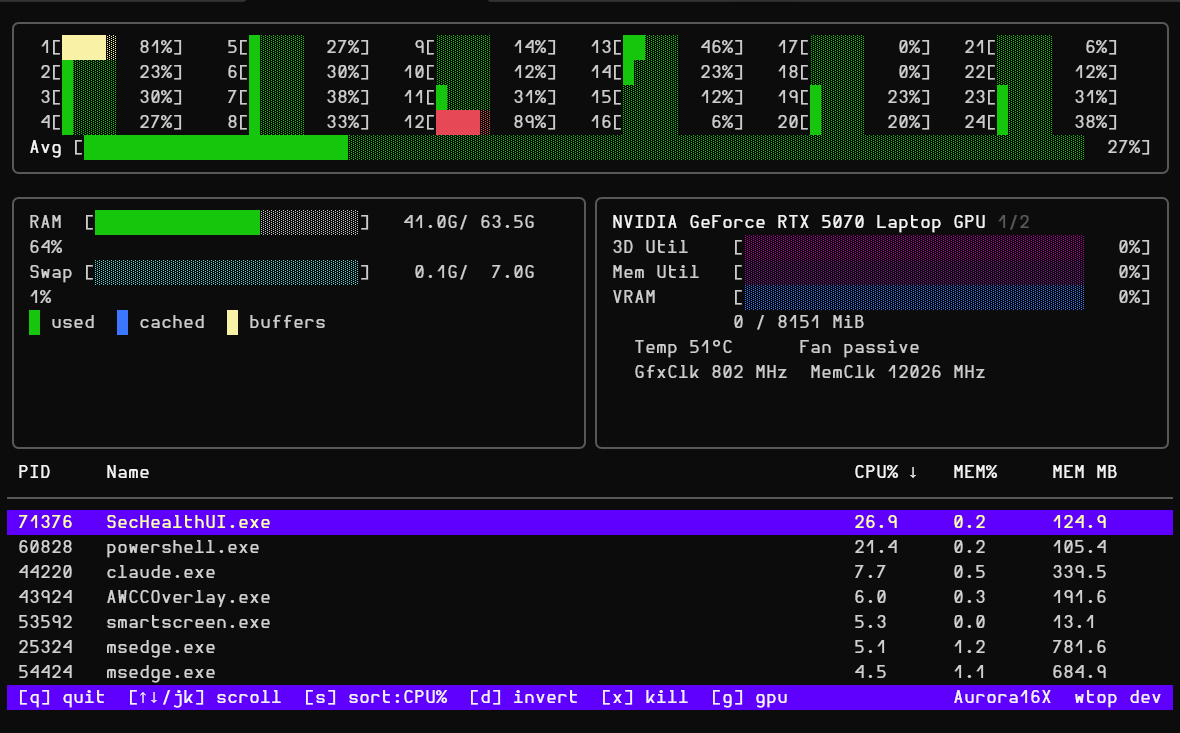
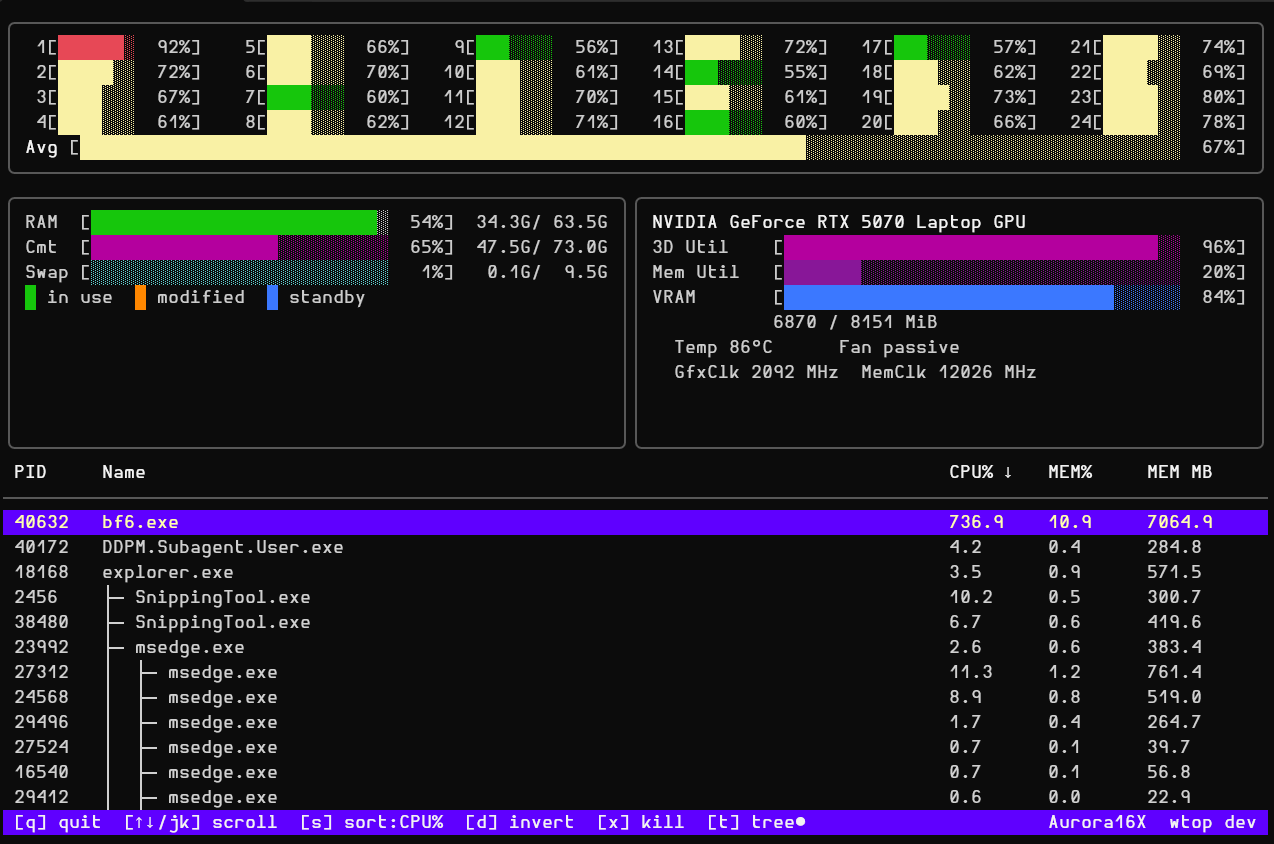
Enhance memory display

diff --git a/internal/ui/panels/mem.go b/internal/ui/panels/mem.go
@@ -8,36 +8,76 @@ import (
 	"github.com/michaelsanford/wtop/internal/collector"
 )
 
-// Mem renders the memory panel.  RAM and Swap each occupy one line with their
-// bar and values inline (no sub-lines).  Colours: green=used, blue=cached,
-// yellow=buffers (Linux), remainder=free.
+// Mem renders the memory panel.
+//
+// On Windows (CommittedBytes > 0) it shows three bar lines:
+//   - RAM   — In Use (green) | Modified (orange) | Standby (blue) | Free (░)
+//   - Cmt   — Committed / commit limit (magenta)
+//   - Swap  — swap utilisation (cyan)
+//
+// On Linux/other it falls back to the htop-style Used | Cached | Buffers layout.
 func Mem(snap collector.MemSnapshot, width, height int) string {
 	innerW := width - 4
 	if innerW < 10 {
 		innerW = 10
 	}
 
-	// Fixed overhead per bar line: "RAM  [" (6) + " NNN%]" (6) + "  " (2) + "XX.XG/XX.XG" (11) = 25
-	// Swap line has same overhead ("Swap [" = 6 chars too).
-	const lineOverhead = 25
+	// Fixed overhead per bar line: "RAM  [" (6) + " NNN%]" (6) + " " (1) + "%5.1fG/%5.1fG" (13) = 26
+	// Swap and Cmt labels are the same width ("Swap [" = "Cmt  [" = 6 chars).
+	const lineOverhead = 26
 	barW := innerW - lineOverhead
 	if barW < 4 {
 		barW = 4
 	}
 
-	ramBar := renderMemBar(snap.RAMUsedBytes, snap.RAMCachedBytes, snap.RAMBuffersBytes, snap.RAMTotalBytes, barW)
-	swapBar := renderBar(snap.SwapPct, barW, lipgloss.Color("14"))
+	var lines []string
+	var legend string
 
-	legend := fmt.Sprintf("%s used  %s cached  %s buffers",
-		lipgloss.NewStyle().Foreground(lipgloss.Color("10")).Render("█"),
-		lipgloss.NewStyle().Foreground(lipgloss.Color("12")).Render("█"),
-		lipgloss.NewStyle().Foreground(lipgloss.Color("11")).Render("█"),
-	)
+	if snap.CommittedBytes > 0 {
+		// ── Windows composition view ─────────────────────────────────────────
+		other := snap.ModifiedBytes + snap.StandbyBytes + snap.FreeBytes
+		var inUse uint64
+		if snap.RAMTotalBytes > other {
+			inUse = snap.RAMTotalBytes - other
+		}
 
-	lines := []string{
-		fmt.Sprintf("RAM  [%s %3.0f%%]  %s", ramBar, snap.RAMPct, fmtMemVal(snap.RAMUsedBytes, snap.RAMTotalBytes)),
-		fmt.Sprintf("Swap [%s %3.0f%%]  %s", swapBar, snap.SwapPct, fmtMemVal(snap.SwapUsedBytes, snap.SwapTotalBytes)),
-		legend,
+		commitPct := 0.0
+		if snap.CommitLimitBytes > 0 {
+			commitPct = float64(snap.CommittedBytes) / float64(snap.CommitLimitBytes) * 100
+		}
+
+		ramBar := renderMemCompositionBar(inUse, snap.ModifiedBytes, snap.StandbyBytes, snap.RAMTotalBytes, barW)
+		cmtBar := renderBar(commitPct, barW, lipgloss.Color("13"))
+		swapBar := renderBar(snap.SwapPct, barW, lipgloss.Color("14"))
+
+		legend = fmt.Sprintf("%s in use  %s modified  %s standby",
+			lipgloss.NewStyle().Foreground(lipgloss.Color("10")).Render("█"),
+			lipgloss.NewStyle().Foreground(lipgloss.Color("208")).Render("█"),
+			lipgloss.NewStyle().Foreground(lipgloss.Color("12")).Render("█"),
+		)
+
+		lines = []string{
+			fmt.Sprintf("RAM  [%s %3.0f%%] %s", ramBar, snap.RAMPct, fmtMemVal(snap.RAMUsedBytes, snap.RAMTotalBytes)),
+			fmt.Sprintf("Cmt  [%s %3.0f%%] %s", cmtBar, commitPct, fmtMemVal(snap.CommittedBytes, snap.CommitLimitBytes)),
+			fmt.Sprintf("Swap [%s %3.0f%%] %s", swapBar, snap.SwapPct, fmtMemVal(snap.SwapUsedBytes, snap.SwapTotalBytes)),
+			legend,
+		}
+	} else {
+		// ── Linux / other: used | cached | buffers ───────────────────────────
+		ramBar := renderMemBar(snap.RAMUsedBytes, snap.RAMCachedBytes, snap.RAMBuffersBytes, snap.RAMTotalBytes, barW)
+		swapBar := renderBar(snap.SwapPct, barW, lipgloss.Color("14"))
+
+		legend = fmt.Sprintf("%s used  %s cached  %s buffers",
+			lipgloss.NewStyle().Foreground(lipgloss.Color("10")).Render("█"),
+			lipgloss.NewStyle().Foreground(lipgloss.Color("12")).Render("█"),
+			lipgloss.NewStyle().Foreground(lipgloss.Color("11")).Render("█"),
+		)
+
+		lines = []string{
+			fmt.Sprintf("RAM  [%s %3.0f%%] %s", ramBar, snap.RAMPct, fmtMemVal(snap.RAMUsedBytes, snap.RAMTotalBytes)),
+			fmt.Sprintf("Swap [%s %3.0f%%] %s", swapBar, snap.SwapPct, fmtMemVal(snap.SwapUsedBytes, snap.SwapTotalBytes)),
+			legend,
+		}
 	}
 
 	content := strings.Join(lines, "\n")
@@ -50,14 +90,55 @@ func Mem(snap collector.MemSnapshot, width, height int) string {
 		Render(content)
 }
 
-// fmtMemVal returns "X.XG/XX.XG" — used/total in GiB, always 11 chars wide.
+// fmtMemVal returns "XX.XG/XX.XG" — used/total in GiB, always 13 chars wide.
 func fmtMemVal(used, total uint64) string {
 	u := float64(used) / (1024 * 1024 * 1024)
 	t := float64(total) / (1024 * 1024 * 1024)
 	return fmt.Sprintf("%5.1fG/%5.1fG", u, t)
 }
 
-// renderMemBar draws three coloured segments: used (green) | cached (blue) | buffers (yellow) | free (░).
+// renderMemCompositionBar draws In Use (green) | Modified (orange) | Standby (blue) | Free (░).
+func renderMemCompositionBar(inUse, modified, standby, total uint64, width int) string {
+	if total == 0 || width <= 0 {
+		return strings.Repeat("░", width)
+	}
+
+	toChars := func(bytes uint64) int {
+		n := int(float64(bytes) / float64(total) * float64(width))
+		if n < 0 {
+			return 0
+		}
+		return n
+	}
+
+	inUseN := toChars(inUse)
+	modN := toChars(modified)
+	stbyN := toChars(standby)
+
+	if inUseN+modN+stbyN > width {
+		excess := inUseN + modN + stbyN - width
+		if stbyN >= excess {
+			stbyN -= excess
+		} else {
+			excess -= stbyN
+			stbyN = 0
+			if modN >= excess {
+				modN -= excess
+			} else {
+				modN = 0
+			}
+		}
+	}
+	freeN := width - inUseN - modN - stbyN
+
+	return lipgloss.NewStyle().Foreground(lipgloss.Color("10")).Render(strings.Repeat("█", inUseN)) +
+		lipgloss.NewStyle().Foreground(lipgloss.Color("208")).Render(strings.Repeat("█", modN)) +
+		lipgloss.NewStyle().Foreground(lipgloss.Color("12")).Render(strings.Repeat("█", stbyN)) +
+		strings.Repeat("░", freeN)
+}
+
+// renderMemBar draws Used (green) | Cached (blue) | Buffers (yellow) | Free (░).
+// Used on Linux/non-Windows where the composition data is not available.
 func renderMemBar(used, cached, buffers, total uint64, width int) string {
 	if total == 0 || width <= 0 {
 		return strings.Repeat("░", width)

diff --git a/internal/collector/mem_windows.go b/internal/collector/mem_windows.go
@@ -1,0 +1,110 @@
+//go:build windows
+
+package collector
+
+import (
+	"sync"
+	"unsafe"
+
+	"golang.org/x/sys/windows"
+)
+
+var (
+	modKernel32                 = windows.NewLazySystemDLL("kernel32.dll")
+	procGlobalMemoryStatusEx    = modKernel32.NewProc("GlobalMemoryStatusEx")
+
+	modPdh                          = windows.NewLazySystemDLL("pdh.dll")
+	procPdhOpenQuery                = modPdh.NewProc("PdhOpenQuery")
+	procPdhAddEnglishCounterW       = modPdh.NewProc("PdhAddEnglishCounterW")
+	procPdhCollectQueryData         = modPdh.NewProc("PdhCollectQueryData")
+	procPdhGetFormattedCounterValue = modPdh.NewProc("PdhGetFormattedCounterValue")
+	procPdhCloseQuery               = modPdh.NewProc("PdhCloseQuery")
+)
+
+// memoryStatusEx mirrors MEMORYSTATUSEX from kernel32.
+type memoryStatusEx struct {
+	Length               uint32
+	MemoryLoad           uint32
+	TotalPhys            uint64
+	AvailPhys            uint64
+	TotalPageFile        uint64
+	AvailPageFile        uint64
+	TotalVirtual         uint64
+	AvailVirtual         uint64
+	AvailExtendedVirtual uint64
+}
+
+const pdhFmtLarge = 0x00000400
+
+// pdhFmtCounterValue mirrors PDH_FMT_COUNTERVALUE for the LARGE (int64) union member.
+type pdhFmtCounterValue struct {
+	CStatus uint32
+	_       uint32 // alignment padding to match the C union
+	Large   int64
+}
+
+type memPDHQuery struct {
+	query    uintptr
+	hMod     uintptr
+	hStandby uintptr
+	hFree    uintptr
+}
+
+var (
+	memPDHOnce sync.Once
+	memPDHInst *memPDHQuery
+)
+
+func getMemPDH() *memPDHQuery {
+	memPDHOnce.Do(func() {
+		var q uintptr
+		if r, _, _ := procPdhOpenQuery.Call(0, 0, uintptr(unsafe.Pointer(&q))); r != 0 {
+			return
+		}
+		m := &memPDHQuery{query: q}
+
+		add := func(path string) uintptr {
+			p, _ := windows.UTF16PtrFromString(path)
+			var h uintptr
+			procPdhAddEnglishCounterW.Call(q, uintptr(unsafe.Pointer(p)), 0, uintptr(unsafe.Pointer(&h)))
+			return h
+		}
+		m.hMod = add(`\Memory\Modified Page List Bytes`)
+		m.hStandby = add(`\Memory\Cache Bytes`)
+		m.hFree = add(`\Memory\Free & Zero Page List Bytes`)
+		memPDHInst = m
+	})
+	return memPDHInst
+}
+
+func augmentMemSnapshot(s *MemSnapshot) {
+	// Committed / commit limit via GlobalMemoryStatusEx.
+	var ms memoryStatusEx
+	ms.Length = uint32(unsafe.Sizeof(ms))
+	if r, _, _ := procGlobalMemoryStatusEx.Call(uintptr(unsafe.Pointer(&ms))); r != 0 {
+		s.CommitLimitBytes = ms.TotalPageFile
+		s.CommittedBytes = ms.TotalPageFile - ms.AvailPageFile
+	}
+
+	// Memory composition via persistent PDH counters.
+	pdh := getMemPDH()
+	if pdh == nil {
+		return
+	}
+	if r, _, _ := procPdhCollectQueryData.Call(pdh.query); r != 0 {
+		return
+	}
+
+	readLarge := func(h uintptr) uint64 {
+		var v pdhFmtCounterValue
+		r, _, _ := procPdhGetFormattedCounterValue.Call(h, pdhFmtLarge, 0, uintptr(unsafe.Pointer(&v)))
+		if r != 0 || v.CStatus != 0 || v.Large < 0 {
+			return 0
+		}
+		return uint64(v.Large)
+	}
+
+	s.ModifiedBytes = readLarge(pdh.hMod)
+	s.StandbyBytes = readLarge(pdh.hStandby)
+	s.FreeBytes = readLarge(pdh.hFree)
+}

diff --git a/internal/collector/collector.go b/internal/collector/collector.go
@@ -33,6 +33,13 @@ type MemSnapshot struct {
 	SwapUsedBytes   uint64
 	SwapTotalBytes  uint64
 	SwapPct         float64
+
+	// Windows memory composition (zero on non-Windows).
+	CommittedBytes   uint64 // virtual memory committed (RAM + page file in use)
+	CommitLimitBytes uint64 // commit ceiling (physical RAM + page file total)
+	ModifiedBytes    uint64 // modified page list — dirty pages awaiting write
+	StandbyBytes     uint64 // standby file cache (\Memory\Cache Bytes)
+	FreeBytes        uint64 // free + zero page list
 }
 
 // GPUSource indicates which backend provided GPU data.

diff --git a/internal/collector/mem.go b/internal/collector/mem.go
@@ -15,7 +15,7 @@ func collectMem() (MemSnapshot, error) {
 		sw = &mem.SwapMemoryStat{}
 	}
 
-	return MemSnapshot{
+	snap := MemSnapshot{
 		RAMUsedBytes:    vm.Used,
 		RAMTotalBytes:   vm.Total,
 		RAMPct:          vm.UsedPercent,
@@ -24,5 +24,7 @@ func collectMem() (MemSnapshot, error) {
 		SwapUsedBytes:   sw.Used,
 		SwapTotalBytes:  sw.Total,
 		SwapPct:         sw.UsedPercent,
-	}, nil
+	}
+	augmentMemSnapshot(&snap)
+	return snap, nil
 }

diff --git a/internal/collector/mem_stub.go b/internal/collector/mem_stub.go
@@ -1,0 +1,5 @@
+//go:build !windows
+
+package collector
+
+func augmentMemSnapshot(s *MemSnapshot) {}